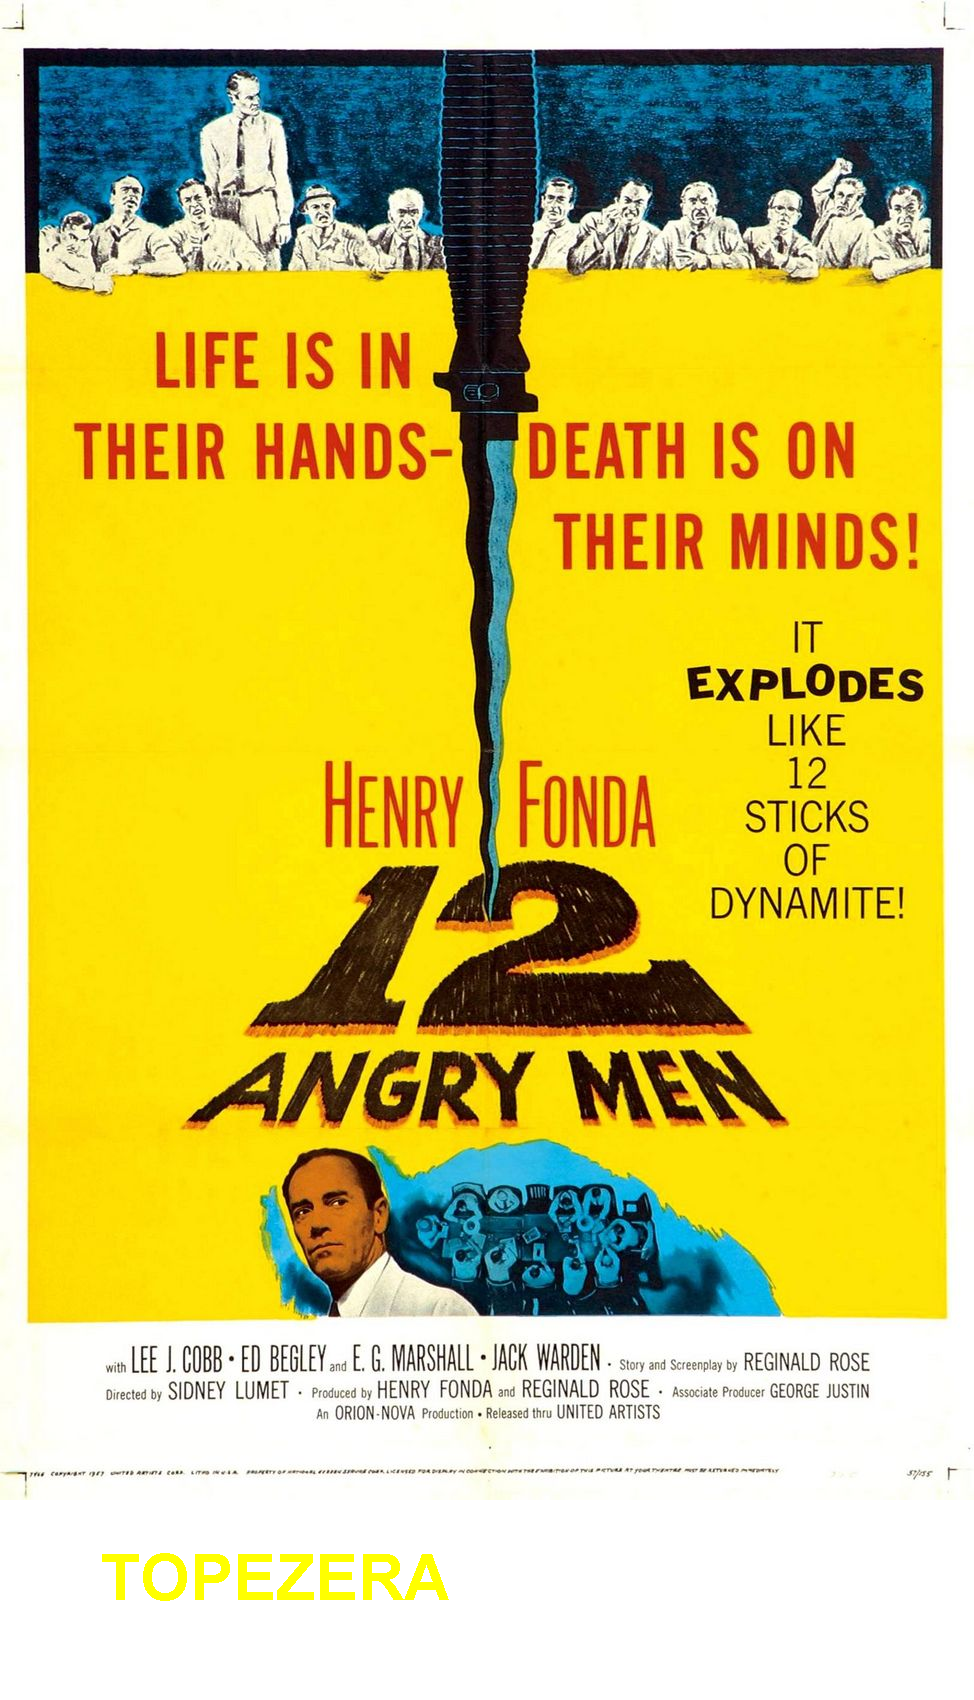
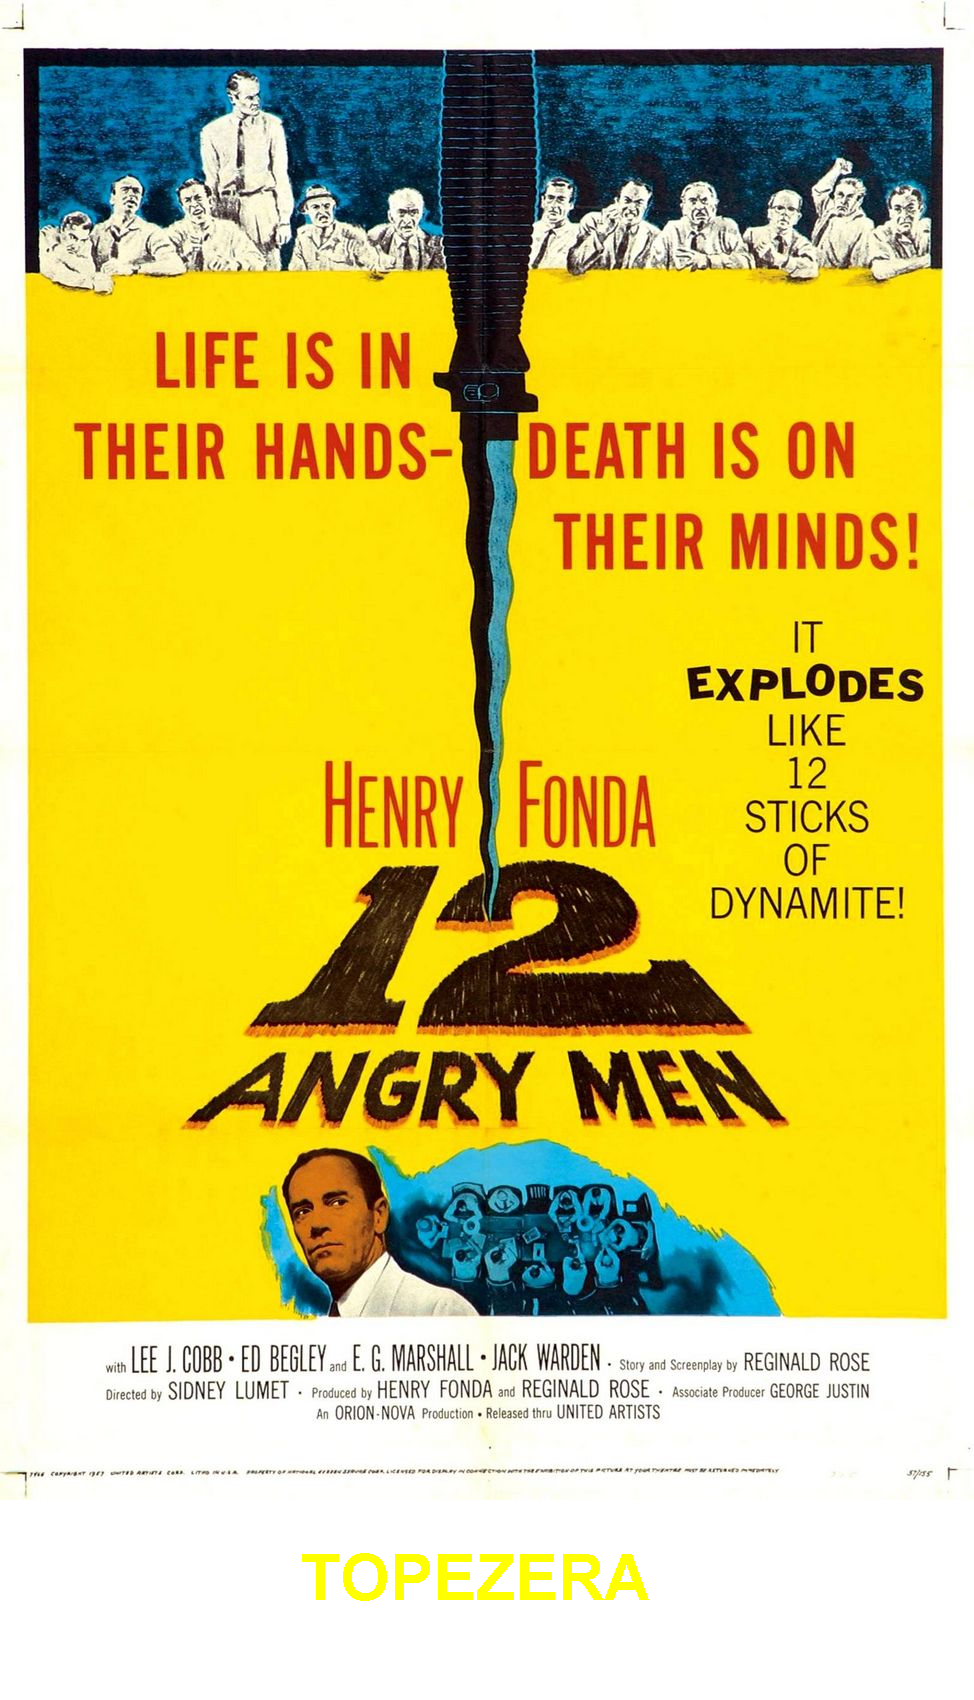
Segunda Aula

Changed region(s): [[0.0924, 0.9041, 0.6776, 0.9665]]

diff --git a/src/GeradoraDeFigurinhas.java b/src/GeradoraDeFigurinhas.java
@@ -1,0 +1,46 @@
+import java.awt.Color;
+import java.awt.Font;
+import java.awt.Graphics2D;
+import java.awt.image.BufferedImage;
+import java.io.File;
+import java.io.InputStream;
+
+import javax.imageio.ImageIO;
+
+public class GeradoraDeFigurinhas {
+    
+    public void cria (InputStream inputStream, String nomeArquivo) throws Exception{
+
+        // leitura de imagem
+        //InputStream inputStream = 
+        //            new FileInputStream(new File("entrada/filme.png"));
+        //InputStream inputStream = 
+        //            new URL("https://imersao-java-apis.s3.amazonaws.com/TopMovies_1.jpg")
+        //           .openStream();
+        BufferedImage imagemOriginal = ImageIO.read(inputStream);
+
+        // cria nova imagem em memória com transparência e com tamanho novo
+        int largura = imagemOriginal.getWidth();
+        int altura = imagemOriginal.getHeight();
+        int novaAltura = altura + 200;
+        BufferedImage novaImagem = new BufferedImage(largura, novaAltura, BufferedImage.TRANSLUCENT);
+        // copiar a imagem original pra novo imagem (em memória)
+        Graphics2D graphics = (Graphics2D)novaImagem.getGraphics();
+        graphics.drawImage(imagemOriginal, 0 , 0, null);
+
+        // configurar a fonte
+        var fonte =new Font(Font.SANS_SERIF, Font.BOLD, 64);
+        graphics.setColor(Color.YELLOW);
+        graphics.setFont(fonte);
+
+        // escrever uma frase na nova mensagem
+        graphics.drawString("TOPEZERA", 300, novaAltura - 100);
+
+        // escrever a nova imagem em um arquivo
+        ImageIO.write(novaImagem, "png", new File(nomeArquivo));
+
+    }
+    
+}
+    
+

diff --git a/src/App.java b/src/App.java
@@ -1,0 +1,45 @@
+import java.io.InputStream;
+import java.net.URI;
+import java.net.URL;
+import java.net.http.HttpClient;
+import java.net.http.HttpRequest;
+import java.net.http.HttpResponse;
+import java.net.http.HttpResponse.BodyHandlers;
+import java.util.List;
+import java.util.Map;
+
+public class App {
+    public static void main(String[] args) throws Exception {
+
+        // fazer uma conexão HTTP e buscar os top 250 filmes
+        String url = "https://raw.githubusercontent.com/alura-cursos/imersao-java/api/TopMovies.json";
+        URI endereco = URI.create(url);
+        var client = HttpClient.newHttpClient();
+        var request = HttpRequest.newBuilder(endereco).GET().build();
+        HttpResponse<String> response = client.send(request, BodyHandlers.ofString());
+        String body = response.body();
+        System.out.println(body);
+
+        // extrair só os dados que interessam (titulo, poster, classificação)
+        var parser = new JsonParser();
+        List<Map<String, String>> listaDeFilmes = parser.parse(body);
+        
+        // exibir e manipular os dados
+        var geradora = new GeradoraDeFigurinhas();
+        for (Map<String,String> filme : listaDeFilmes) {
+
+            String urlImagem = filme.get("image");
+            String titulo = filme.get("title");
+
+            InputStream inputStream =  new URL(urlImagem).openStream();
+            String nomeArquivo = titulo + ".png";
+
+            
+            geradora.cria(inputStream, nomeArquivo);
+
+            System.out.println(titulo);
+            System.out.println();
+            
+        }
+    }
+}

diff --git a/src/JsonParser.java b/src/JsonParser.java
@@ -1,0 +1,43 @@
+import java.util.ArrayList;
+import java.util.HashMap;
+import java.util.List;
+import java.util.Map;
+import java.util.regex.Matcher;
+import java.util.regex.Pattern;
+
+public class JsonParser {
+    
+    private static final Pattern REGEX_ITEMS = Pattern.compile(".*\\[(.+)\\].*");
+    private static final Pattern REGEX_ATRIBUTOS_JSON = Pattern.compile("\"(.+?)\":\"(.*?)\"");
+    
+
+    public List<Map<String, String>> parse(String json){
+        Matcher matcher = REGEX_ITEMS.matcher(json);
+        if (!matcher.find()) {
+
+            throw new IllegalArgumentException("Não encontrou items.");
+        }
+
+        String[] items = matcher.group(1).split("\\},\\{");
+
+        List<Map<String, String>> dados = new ArrayList<>();
+
+        for (String item : items) {
+
+            Map<String, String> atributosItem = new HashMap<>();
+
+            Matcher matcherAtributosJson = REGEX_ATRIBUTOS_JSON.matcher(item);
+            while (matcherAtributosJson.find()) {
+                String atributo = matcherAtributosJson.group(1);
+                String valor = matcherAtributosJson.group(2);
+                atributosItem.put(atributo, valor);
+            }
+
+            dados.add(atributosItem);
+        }
+
+        return dados;
+
+    }
+    
+}
